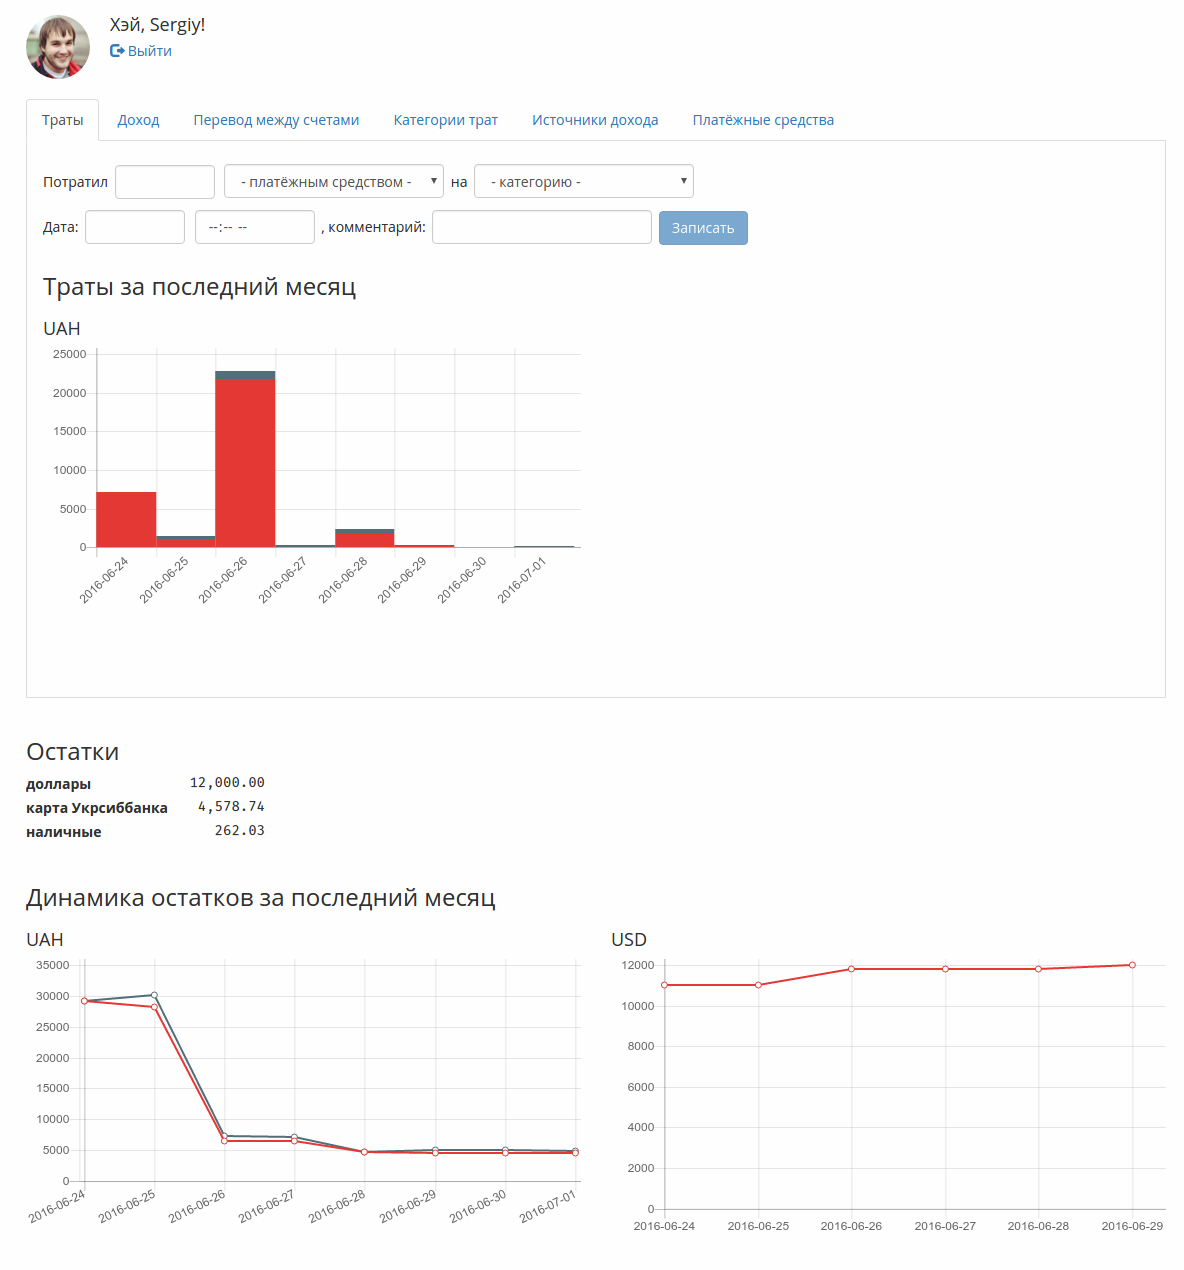
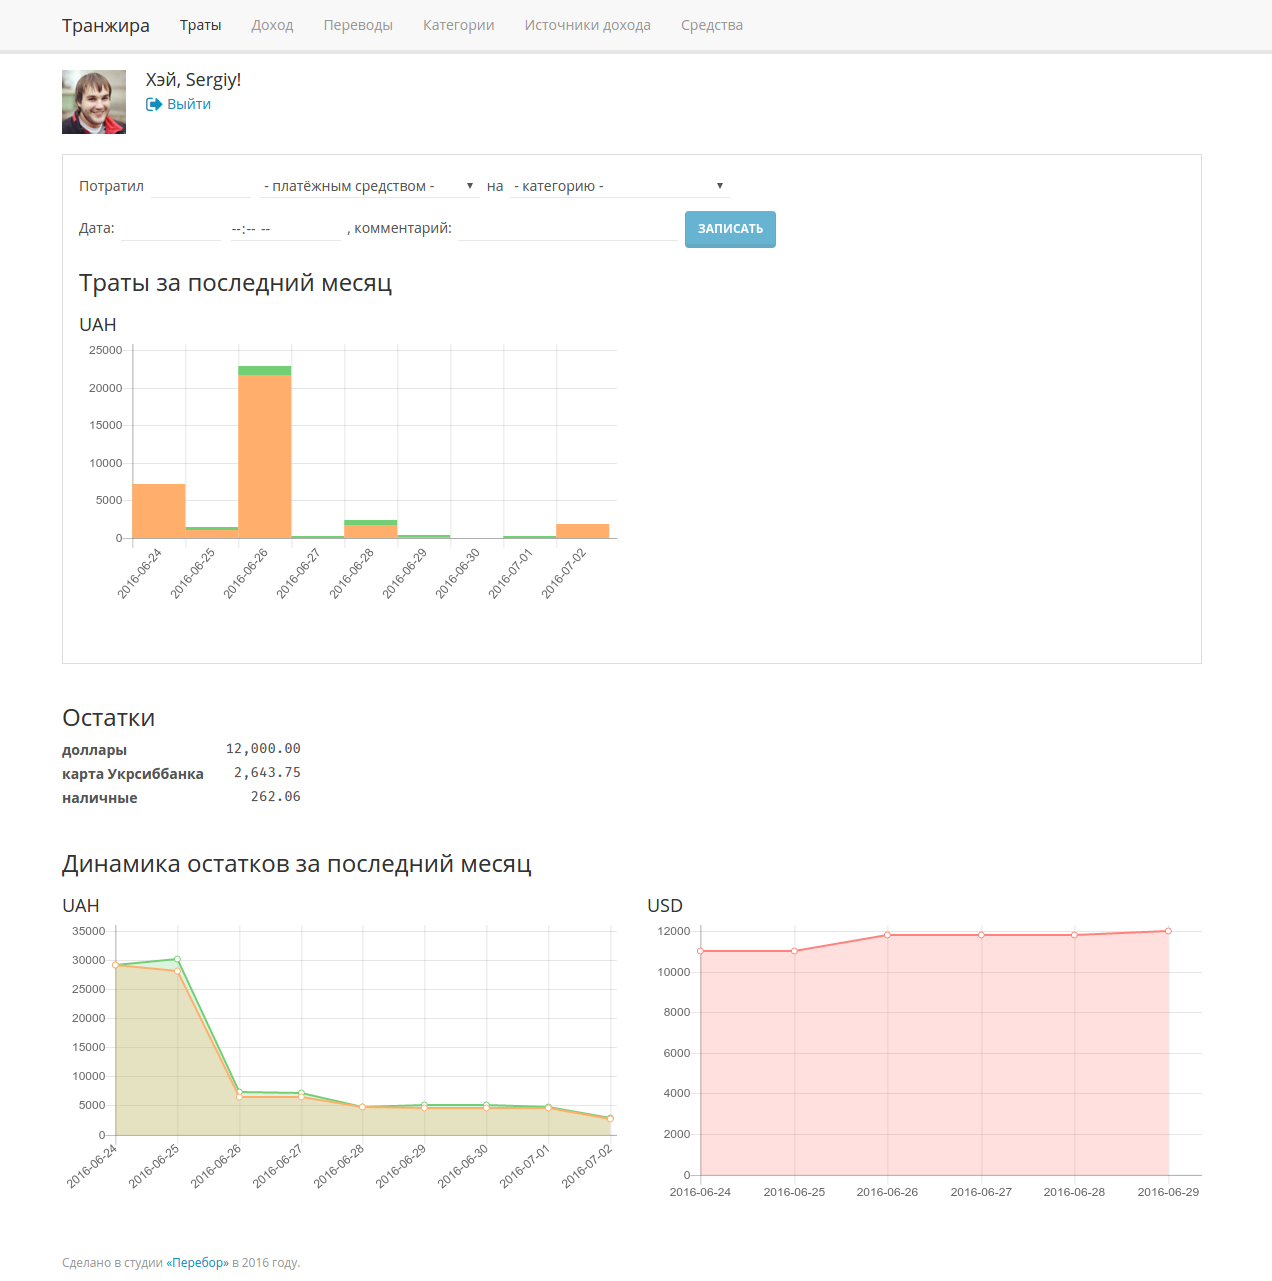
Defulat color is #bbb; Add opacity to colors of pie chart on hover; Update screenshot;

diff --git a/src/js/app/spender/chart.service.js b/src/js/app/spender/chart.service.js
@@ -49,15 +49,17 @@ angular.module('spender')
             line.push(+((chartMap[currency][paymentMethodId] && chartMap[currency][paymentMethodId][date] || 0).toFixed(2)));
           });
 
+	  var color = paymentMethodsMap[currency][paymentMethodId].color || '#bbb';
+
           chart[currency].datasets.push(angular.extend({}, datasetConfig, {
             label: paymentMethodsMap[currency][paymentMethodId].name,
-            borderColor: paymentMethodsMap[currency][paymentMethodId].color,
-            hoverBorderColor: paymentMethodsMap[currency][paymentMethodId].color,
-            backgroundColor: 'rgba(' + hex(paymentMethodsMap[currency][paymentMethodId].color) + ',' + (datasetConfig.backgroundOpacity || '0.5') + ')',
-            hoverBackgroundColor: 'rgba(' + hex(paymentMethodsMap[currency][paymentMethodId].color) + ','  + (datasetConfig.backgroundOpacity || '0.5') + ')',
-            pointBorderColor: paymentMethodsMap[currency][paymentMethodId].color,
-            pointHoverBorderColor: paymentMethodsMap[currency][paymentMethodId].color,
-            pointHoverBackgroundColor: paymentMethodsMap[currency][paymentMethodId].color,
+            borderColor: color,
+            hoverBorderColor: color,
+            backgroundColor: 'rgba(' + hex(color) + ',' + (datasetConfig.backgroundOpacity || '0.5') + ')',
+            hoverBackgroundColor: 'rgba(' + hex(color) + ','  + (datasetConfig.backgroundOpacity || '0.5') + ')',
+            pointBorderColor: color,
+            pointHoverBorderColor: color,
+            pointHoverBackgroundColor: color,
             pointBackgroundColor: "#fff"
           }));
 
@@ -185,7 +187,7 @@ angular.module('spender')
         if (!categoriesMap[currency][categoryId]) {
           categoriesMap[currency][categoryId] = {
             label: e[categoryKey + 'Name'],
-            color: e[categoryKey + 'Color'],
+            color: e[categoryKey + 'Color'] || '#bbb',
             total: 0
           };
         }
@@ -195,13 +197,15 @@ angular.module('spender')
 
       Object.keys(categoriesMap).map(function(currency) {
         var colors = [],
+          opacityColors = [],
           data = [],
           labels = [];
 
         Object.keys(categoriesMap[currency]).map(function(key) {
           data.push(categoriesMap[currency][key].total);
           labels.push(categoriesMap[currency][key].label);
-          colors.push(categoriesMap[currency][key].color);
+          colors.push(categoriesMap[currency][key].color || '#bbb');
+          opacityColors.push('rgba(' + hex(colors[colors.length - 1]) + ',0.5)');
         });
 
         chart[currency] = {
@@ -212,7 +216,7 @@ angular.module('spender')
             borderColor: colors,
             hoverBorderColor: colors,
             backgroundColor: colors,
-            hoverBackgroundColor: colors
+            hoverBackgroundColor: opacityColors
           }]
         };
       });
